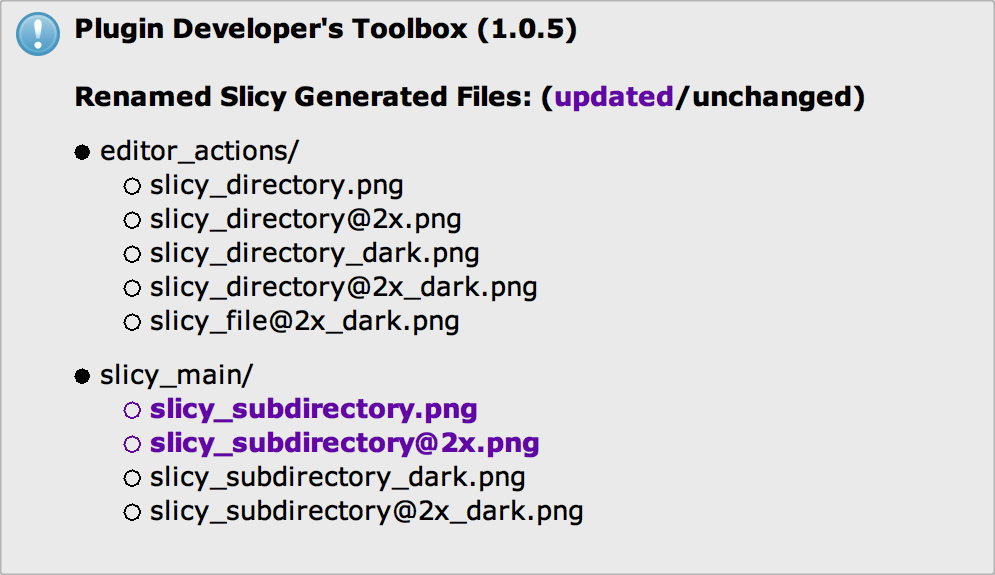
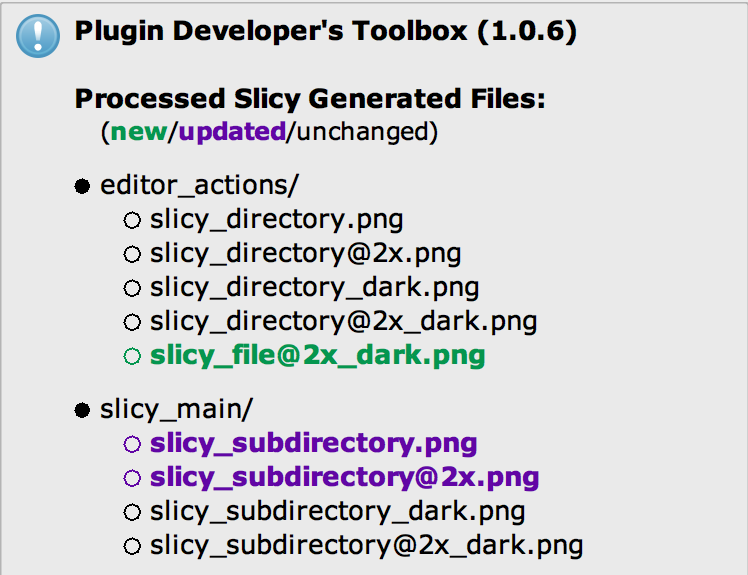
fix files in new dir were only processed if dir was used for name splicing add highlight new files in notification

Changed region(s): [[0.0, 0.1478, 1.0, 1.0], [0.0, 0.0, 1.0, 0.1183]]

diff --git a/src/com/vladsch/PluginDevelopersToolbox/PluginProjectComponent.kt b/src/com/vladsch/PluginDevelopersToolbox/PluginProjectComponent.kt
@@ -93,7 +93,7 @@ class PluginProjectComponent(val myProject: Project) : ProjectComponent, Virtual
             myHadErrors = false
         }
 
-        val messageHtml = PluginNotifications.processDashStarPage(message, Bundle.message("plugin.action.files-moved.title"))
+        val messageHtml = PluginNotifications.processDashStarPage(message, Bundle.message("plugin.action.files-moved.title"), Bundle.message("plugin.action.files-moved.subtitle"))
         //        println(messageHtml)
         val notificationType = if (hadErrors) NotificationType.WARNING else NotificationType.INFORMATION
         val notificationGroup = if (hadErrors) PluginNotifications.NOTIFICATION_GROUP_ACTION_ERRORS else PluginNotifications.NOTIFICATION_GROUP_ACTION
@@ -101,9 +101,18 @@ class PluginProjectComponent(val myProject: Project) : ProjectComponent, Virtual
         PluginNotifications.makeNotification(messageHtml, project = this.myProject, notificationType = notificationType, issueNotificationGroup = notificationGroup)
     }
 
-    private fun openParentItem(parentItem: String?) {
+    private fun openParentItem(parentItem: String) {
+        @Suppress("NAME_SHADOWING")
+        var parentItem = parentItem
         myNotifyMessage.append(PluginNotifications.processDashStarItems(myNotifyList.toString()))
-        myNotifyMessage.appendln("\n<li>$parentItem\n<ul style=\"margin-top: 0px;\">")
+        val colorOption: String =
+                if (parentItem.startsWith("~")) {
+                    parentItem = parentItem.removePrefix("~").wrapWith("<b>", "</b>")
+                    " style=\"color: [[SPECIALS]];\""
+                } else {
+                    ""
+                }
+        myNotifyMessage.appendln(PluginNotifications.applyHtmlColors("\n<li$colorOption>$parentItem\n<ul style=\"margin-top: 0px;\">"))
         myNotifyList.delete(0, myNotifyList.length)
         myLastParentItem = parentItem
     }
@@ -176,11 +185,17 @@ class PluginProjectComponent(val myProject: Project) : ProjectComponent, Virtual
             }
         } else if (file.isDirectory) {
             // see if there are any child directories matching the Slicy directory splicing pattern
+            // or files in this directory that can be processed
             invokeLaterInWriteAction() {
                 if (file.isValid && parent.isValid) {
                     for (subDir in file.children) {
-                        if (subDir.isValid && subDir.isDirectory && subDir.extension == "+") {
-                            processSlicyDirectory(subDir, file, parent.name + "/" + file.name + "/")
+                        if (subDir.isValid && subDir.isDirectory) {
+                            if (subDir.extension == "+") {
+                                processSlicyDirectory(subDir, file, parent.name + "/" + file.name + "/")
+                            }
+                        } else if (subDir.isValid && !subDir.isDirectory && subDir.extension in IMAGE_EXTENSIONS) {
+                            // just process the directory
+                            processSlicyFile(subDir, file, "~" + parent.name + "/" + file.name + "/")
                         }
                     }
                 }
@@ -283,7 +298,7 @@ class PluginProjectComponent(val myProject: Project) : ProjectComponent, Virtual
                 try {
                     if (file.parent !== parent) file.move(this, parent)
                     fileProcessed = true
-                    addNotificationItem(Bundle.message("plugin.action.file-processed", newName), parentItem)
+                    addNotificationItem(Bundle.message("plugin.action.file-moved", newName), parentItem)
                 } catch (e: IOException) {
                     addNotificationItem(Bundle.message("plugin.action.file-move-failed", file.name, file.parent.name, parent.name), parentItem)
                     logger.info(e)

diff --git a/src/com/vladsch/PluginDevelopersToolbox/PluginNotifications.kt b/src/com/vladsch/PluginDevelopersToolbox/PluginNotifications.kt
@@ -39,7 +39,7 @@ object PluginNotifications {
 
     val DEFAULT_STAR_ATTR = "BUY"
     val DEFAULT_PLUS_ATTR = "ENHANCED"
-    val DEFAULT_ALT_PLUS_ATTR = "SPECIALS"
+    val DEFAULT_TILDE_ATTR = "SPECIALS"
 
     fun applyHtmlColors(htmlText: String): String {
         val isDarkUITheme = UIUtil.isUnderDarcula()
@@ -50,19 +50,21 @@ object PluginNotifications {
     }
 
     fun processDashStarList(featureList: String, titleHtml: String? = null, enhAttr: String = DEFAULT_STAR_ATTR): String {
-        val features = processDashStarPage(processDashStarItems(featureList,enhAttr),titleHtml)
+        val features = processDashStarPage(processDashStarItems(featureList,enhAttr), titleHtml, null)
         return applyHtmlColors(features)
     }
 
-    fun processDashStarPage(featuresListHtml: String, titleHtml: String? = null): String {
+    fun processDashStarPage(featuresListHtml: String, titleHtml: String? = null, subTitleHtml: String?): String {
+        val subTitle = subTitleHtml ?: ""
         val features = featuresListHtml.wrapWith((if (titleHtml != null && !titleHtml.isEmpty()) """
 <h4 style="margin: 0; font-size: ${JBUI.scale(10)}px">$titleHtml</h4>""" else "")+"""
+<div style="margin-top: 0; margin-left: ${JBUI.scale(10)}px; margin-bottom: 0; font-size: ${JBUI.scale(9)}px">$subTitle</div>
 <ul style="margin-left: ${JBUI.scale(10)}px;">
 """, "</ul>")
         return applyHtmlColors(features)
     }
 
-    fun processDashStarItems(featureList: String, starAttr: String = DEFAULT_STAR_ATTR, plusAttr: String = DEFAULT_PLUS_ATTR): String {
+    fun processDashStarItems(featureList: String, starAttr: String = DEFAULT_STAR_ATTR, plusAttr: String = DEFAULT_PLUS_ATTR, tildeAttr: String = DEFAULT_TILDE_ATTR): String {
         //        val featureList = """
         //- Preferences now under <b>Languages & Frameworks</b>
         //- Improved preview update performance
@@ -84,6 +86,7 @@ object PluginNotifications {
             accum + (
                     if (item.startsWith('*')) item.removePrefix("*").trim().wrapWith("<li style=\"color: [[$starAttr]]\"><b>", "</b></li>")
                     else if (item.startsWith('+')) item.removePrefix("+").trim().wrapWith("<li style=\"color: [[$plusAttr]]\"><b>", "</b></li>")
+                    else if (item.startsWith('~')) item.removePrefix("~").trim().wrapWith("<li style=\"color: [[$tildeAttr]]\"><b>", "</b></li>")
                     else item.removePrefix("-").trim().wrapWith("<li>", "</li>")
                     )
         }

diff --git a/resources/META-INF/VERSION.md b/resources/META-INF/VERSION.md
@@ -1,3 +1,9 @@
+### 1.0.6 - Minor Tweaks & Bug Fix
+
+- Add: different color to newly created files
+- Fix: slicy files in newly created directories would be ignored unless the directory name was
+  used as a splice to the file name.
+
 ### 1.0.5 - Bug Fix
 
 - Add: skipping of files whose content has not changed to prevent unnecessary VCS caused thrashing.
